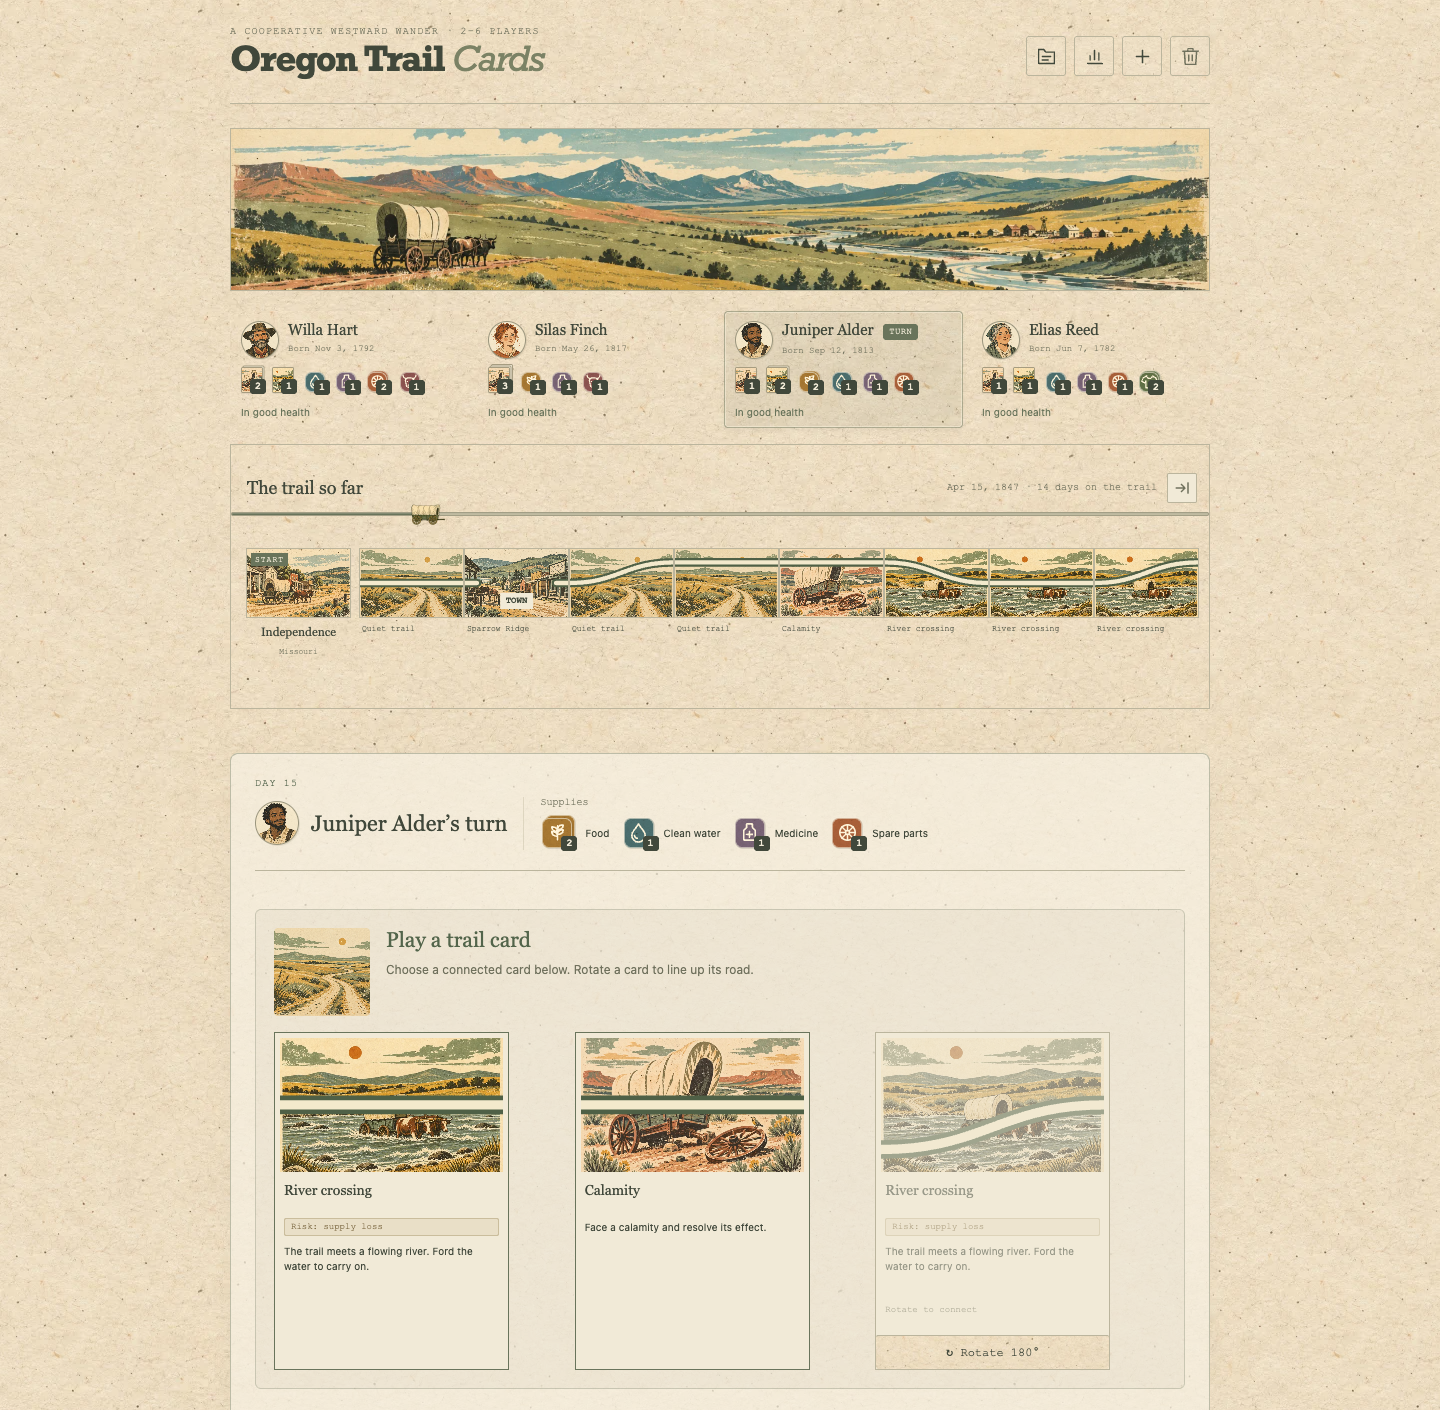
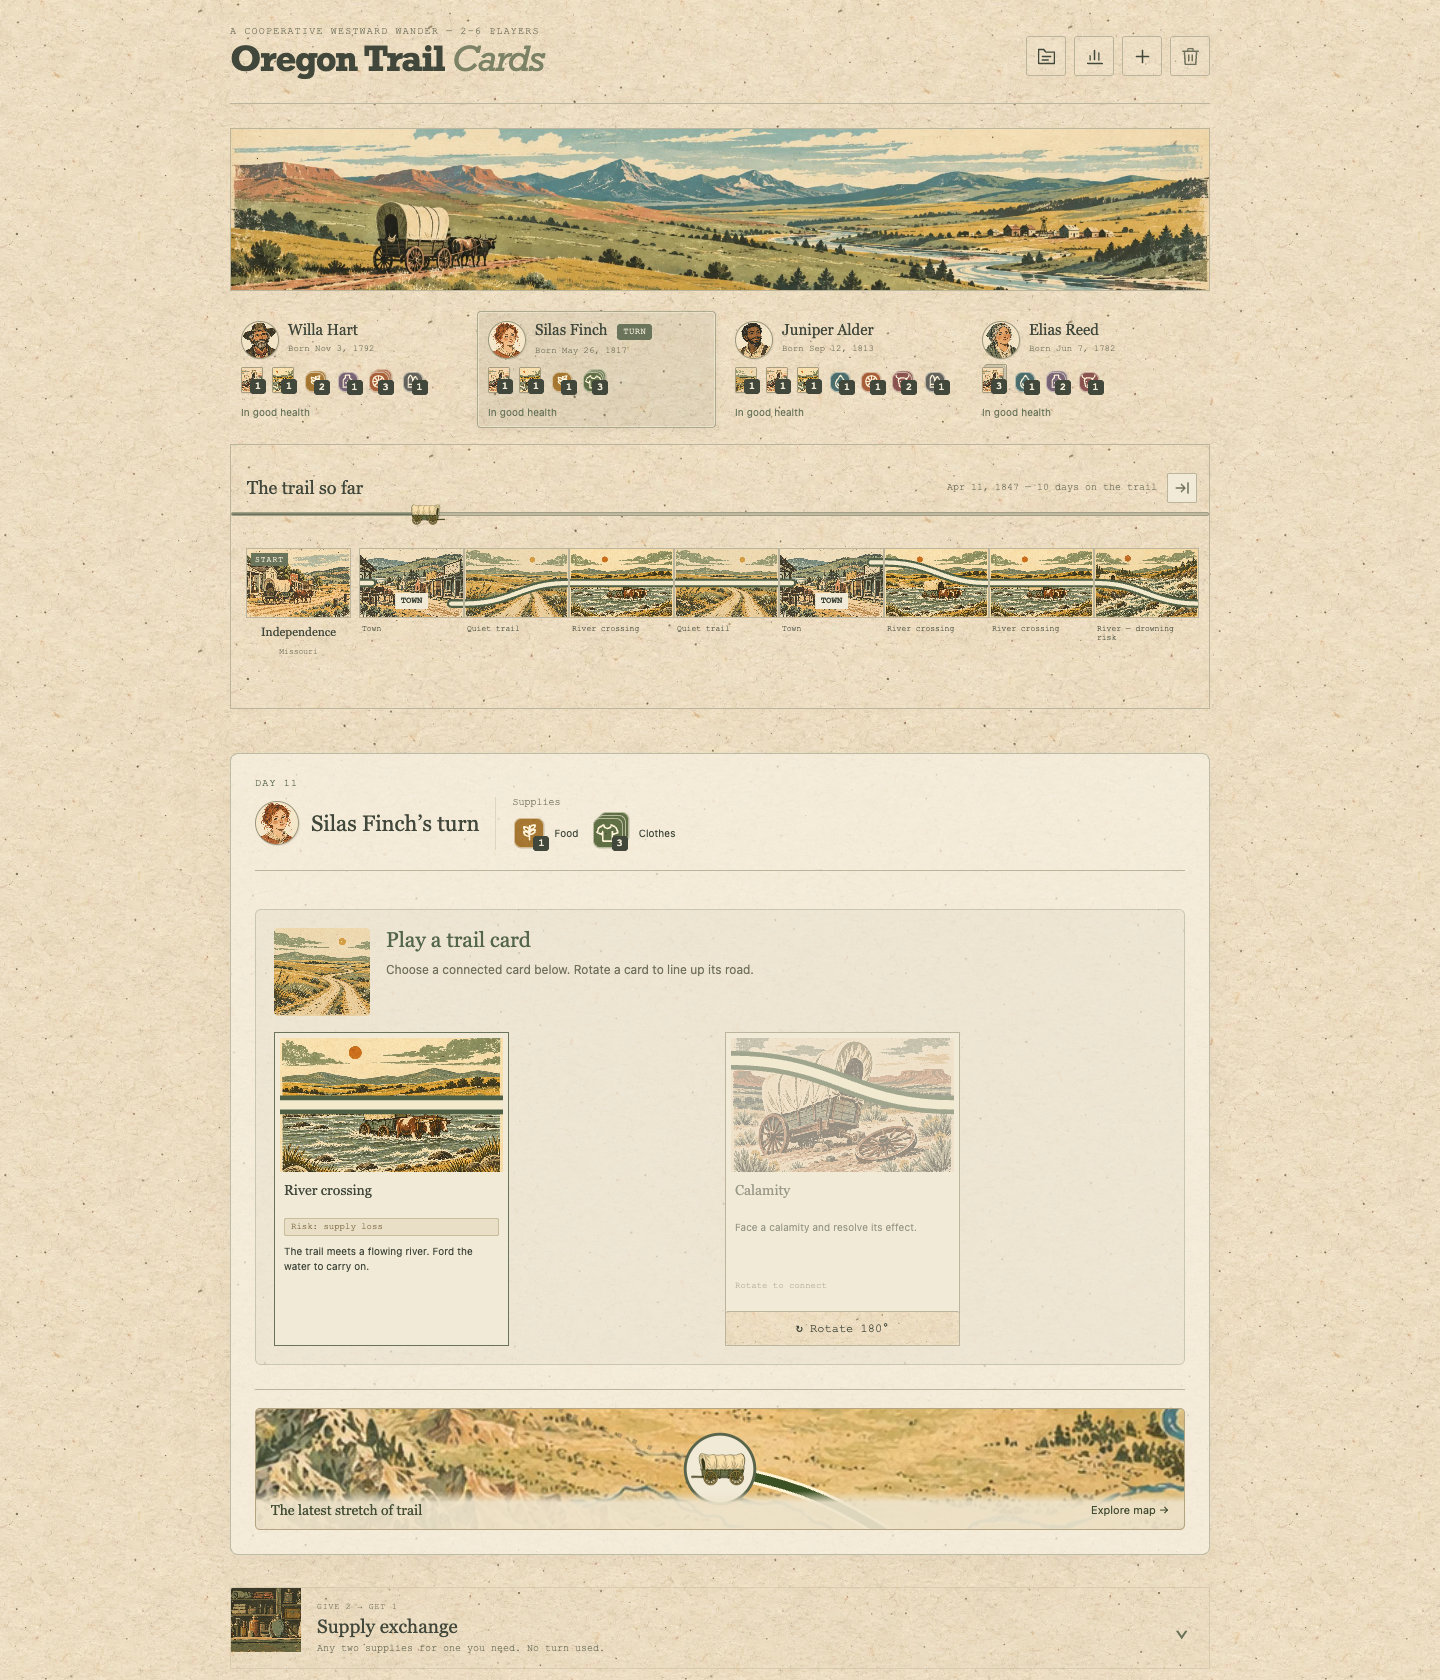
Update README with enhanced descriptions and new screenshots for journey playback

diff --git a/README.md b/README.md
@@ -6,12 +6,13 @@ An Oregon Trail card game with local co-op and robo mode to confirm dysentery is
 
 - Play solo, share a screen in local co-op, or bring computer companions.
 - Connect trail cards, cross rivers, trade supplies, and survive calamities.
-- Save journeys automatically and explore their events on an illustrated map.
+- Save journeys automatically and replay their events on an illustrated map.
 - Compare outcomes with visual statistics, traveller fates, and temporary simulation batches.
 
-![The wagon, travellers, and trail](docs/screenshots/gameplay.png)
-![An illustrated journey map](docs/screenshots/journey-map.png)
-![Journey statistics and outcome flows](docs/screenshots/statistics.png)
+![A traveller’s turn, supplies, hand, and the trail so far](docs/screenshots/gameplay.png)
+![A completed journey from Independence to Oregon City](docs/screenshots/journey-map.png)
+![Journey playback with the traveller roster, river artwork, and action toasts](docs/screenshots/journey-playback.png)
+![Journey statistics with outcome flows and causes of loss](docs/screenshots/statistics.png)
 
 ## Run locally
 
@@ -28,6 +29,6 @@ npm run build
 npm run simulate -- --games 100 --players 3 --seed 1
 ```
 
-[Rules and adaptations](docs/rules.md) · [Computer strategy and simulations](docs/computer-players.md) · [Saved history format](docs/history.md)
+[Rules and adaptations](docs/rules.md) — [Computer strategy and simulations](docs/computer-players.md) — [Saved history format](docs/history.md)
 
 GitHub Actions builds and publishes GitHub Pages when changes are pushed to `main`.
